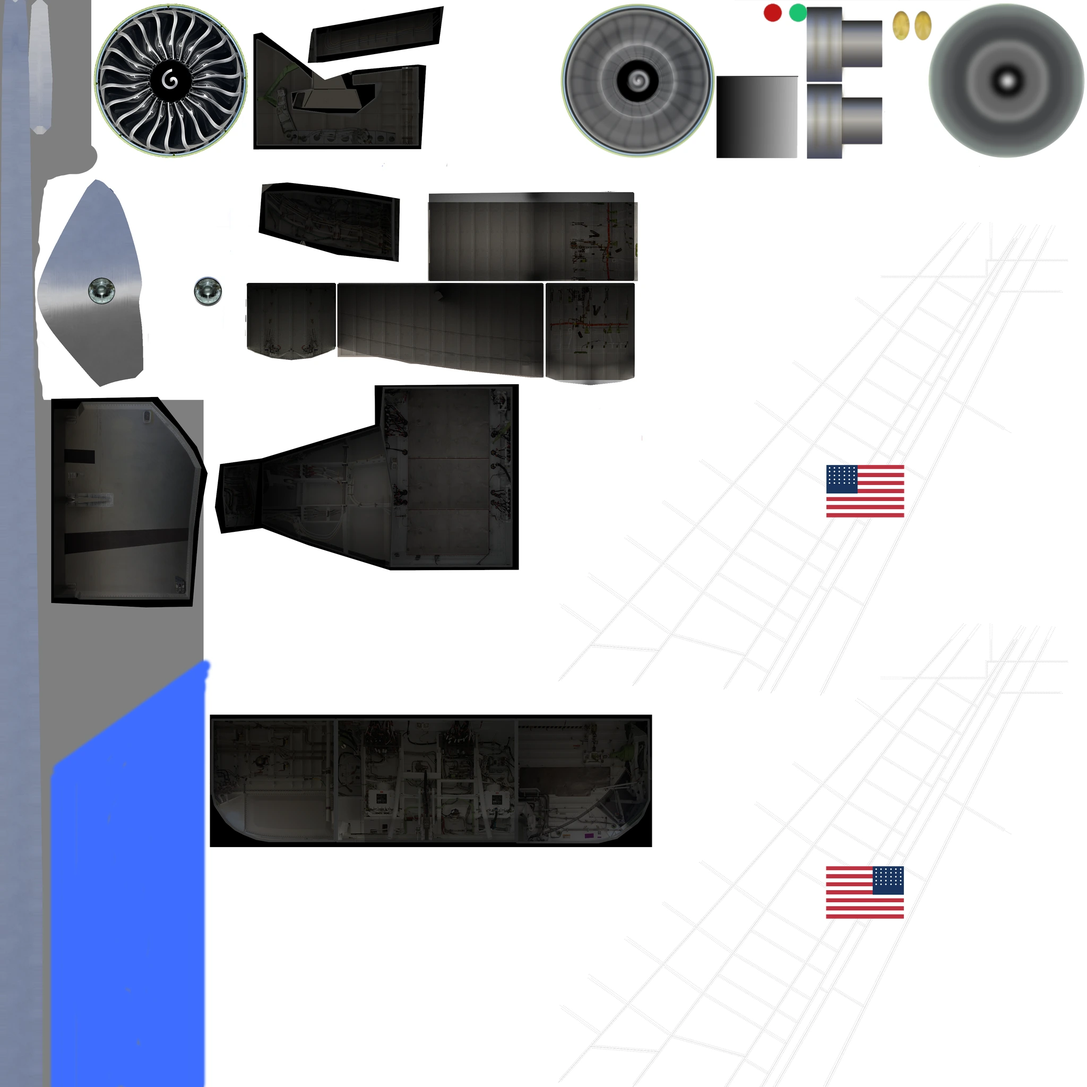
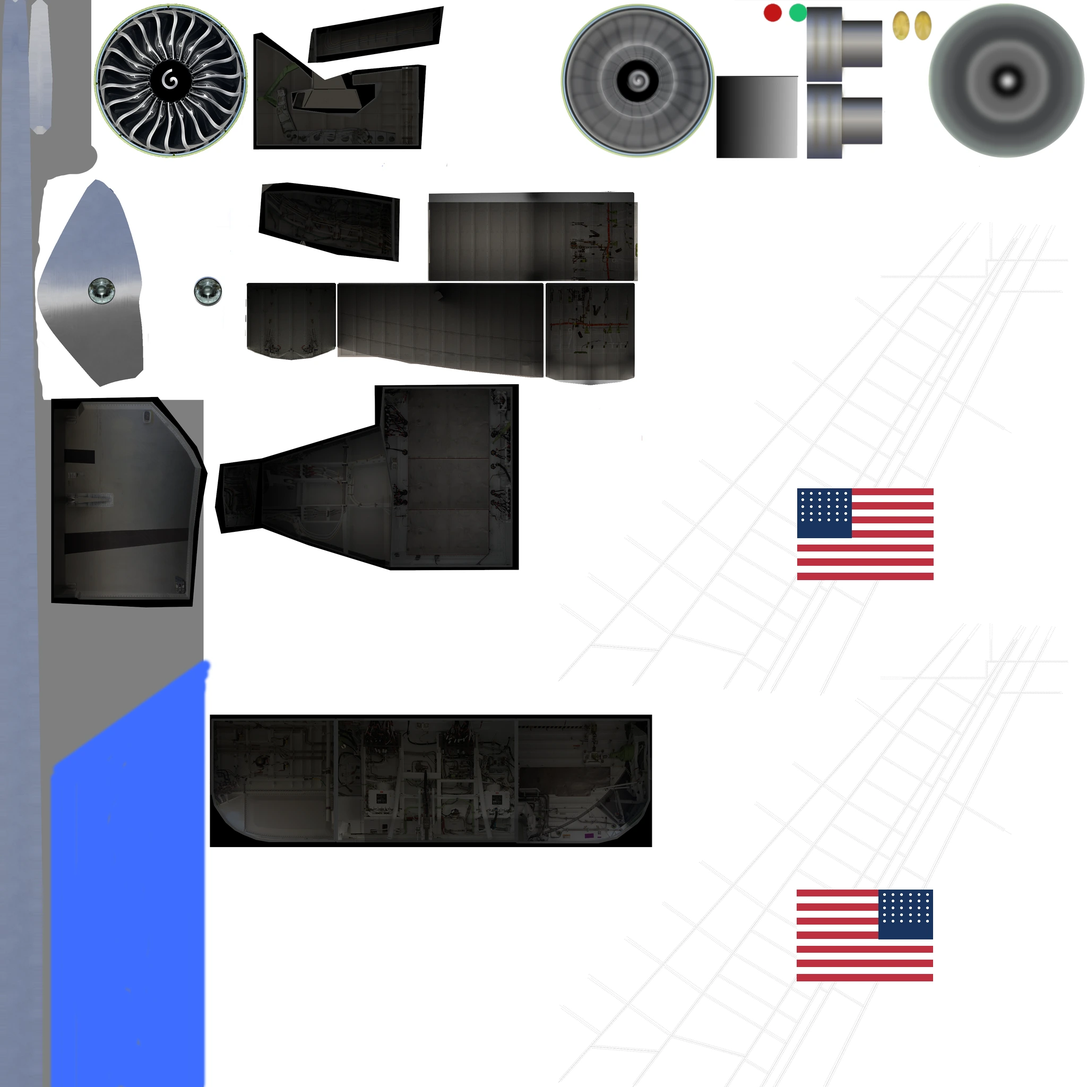
fix: correct airline liveries and improve render performance
Liveries:
- Emirates titles and cheatline are red (#D71920), not gold, on the 747
  and 777 atlases.
- Lufthansa 777 fin is dark blue with a yellow crane; the previous atlas
  had the two colours inverted.
- Air Force One tails now carry a large flag over the fin (747 classic and
  both 777 variants) instead of a small tip badge.
- Regenerated the affected PNG sources and WebP delivery copies.

Performance:
- Disable preserveDrawingBuffer and keep a throttled backup frame instead.
- Reduce the shadow map from 4096 to 2048 and anisotropy from 16 to 8.
- Cache camera projection inputs and avoid rebuilding the matrix per frame.
- Avoid per-frame vector/array allocations in aircraft animation and airflow.
- Skip particle buffer updates while a pool is idle.
- Hide the static apron aircraft in the low-quality mode.
- Request the high-performance GPU and cap the pixel ratio at 1.5.

Agent: Pi coding agent
Model: deepseek/deepseek-flash-latest

Changed region(s): [[0.7188, 0.7812, 0.875, 0.9062], [0.7188, 0.4062, 0.875, 0.5312]]

diff --git a/src/main.js b/src/main.js
@@ -25,7 +25,9 @@ let renderer;
 try{
  const canvas=document.createElement('canvas');
  // Supply our own context: Three r170 otherwise requests an alpha-enabled drawing buffer.
- const context=canvas.getContext('webgl2',{alpha:false,antialias:true,depth:true,stencil:false,preserveDrawingBuffer:true,powerPreference:'default'});
+ // preserveDrawingBuffer costs a full-buffer copy on many GPUs; StableDisplay
+ // keeps its own throttled backup instead. Ask for the discrete GPU when present.
+ const context=canvas.getContext('webgl2',{alpha:false,antialias:true,depth:true,stencil:false,preserveDrawingBuffer:false,powerPreference:'high-performance'});
  if(!context)throw Error('WebGL2 unavailable');
  renderer=new T.WebGLRenderer({canvas,context,alpha:false,logarithmicDepthBuffer:true});
 }catch(e){$('#loadingText').textContent='浏览器暂时不能显示三维画面。请用 Chrome 或 Edge，并开启硬件加速后重试。';throw e;}
@@ -34,7 +36,7 @@ const display=new StableDisplay(renderer,$('#viewport'));display.beginFrame();
 const scene=new T.Scene(),camera=new T.PerspectiveCamera(43,innerWidth/innerHeight,.2,120000);
 const world=new World(scene,renderer),sim=new Flight();
 let plane=new Aircraft(),cockpit=null,airflow=null;
-const aircraftCache=new Map();let aircraftRequest=0,liveryVersion=0,desiredLivery='BOE';
+const aircraftCache=new Map();const parkedAircraft=[];let aircraftRequest=0,liveryVersion=0,desiredLivery='BOE';
 const AIRCRAFT_INFO={
  b747:{name:'BOEING 747–400',gear:'18 个轮子，5 组支撑',engines:4,engine:'GE CF6 · N1 %'},
  a380:{name:'AIRBUS A380–800',gear:'22 个轮子，5 组支撑',engines:4,engine:'TRENT 900 · N1 %',description:'全长双层客舱和四台发动机。外形采用 FlyByWire A380X 模型，非商业用途。'},
@@ -45,6 +47,8 @@ let originalAbout='',originalEmitters=null;
 let camMode='orbit',orbitAngle=.87,orbitHeight=.29,orbitDistance=137,focus=new T.Vector3(0,2,0),firstCamera=true,rate=1,panel=null,toastTimer,frameCount=0,elapsed=0,fps=0;
 let orbitOverview=true,overviewCraft=null;
 let lookYaw=0,lookPitch=0,viewFov=43,towerZoom=1,cancelCameraGestures=()=>{};
+// Cache projection inputs so the camera matrix is only rebuilt when it changes.
+let lastViewX=NaN,lastW=0,lastH=0,lastFov=0;
 const keys=new Set(),touch=new Set(),surface={roll:0,pitch:0,yaw:0};
 const camPos=new T.Vector3(),camTarget=new T.Vector3(),targetPos=new T.Vector3(),planePos=new T.Vector3();
 const lookDir=new T.Vector3(),lookRight=new T.Vector3(),panRight=new T.Vector3(),panUp=new T.Vector3(),inverseHeading=new T.Quaternion();
@@ -269,7 +273,7 @@ function bindUI(){
  $('#assist').onclick=()=>{sim.assist=!sim.assist;$('#assist').classList.toggle('active',sim.assist);};
  all('[data-time]').forEach(b=>b.onclick=()=>{world.setTime(b.dataset.time);syncCabinTime(plane);document.body.dataset.time=b.dataset.time;all('[data-time]').forEach(x=>x.classList.toggle('active',x===b));});
  all('[data-aircraft]').forEach(b=>b.onclick=()=>selectAircraft(b.dataset.aircraft));$('#aircraftSelect').onchange=e=>selectAircraft(e.target.value);
- $('#quality').onchange=e=>{const low=e.target.value==='low';display.setQuality(low);renderer.shadowMap.enabled=!low;airflow?.setQuality(low);};
+ $('#quality').onchange=e=>{const low=e.target.value==='low';display.setQuality(low);renderer.shadowMap.enabled=!low;airflow?.setQuality(low);for(const p of parkedAircraft)p.visible=!low;};
  $('#sound').onclick=()=>{initAudio();sound.enabled=!sound.enabled;sound.ctx.resume();$('#sound').classList.toggle('on',sound.enabled);$('#sound').ariaLabel=sound.enabled?'关闭声音':'开启声音';notify(sound.enabled?'发动机声音已开启':'声音已关闭');};
  $('#help').onclick=()=>$('#helpDialog').showModal();all('[data-close]').forEach(b=>b.onclick=()=>$('#'+b.dataset.close).close());
  $('#fullscreen').onclick=async()=>{try{if(document.fullscreenElement)await document.exitFullscreen();else await document.documentElement.requestFullscreen();}catch{notify('请使用浏览器的全屏按钮');}};
@@ -305,7 +309,15 @@ function updateCamera(dt){
  if(camMode!=='cockpit')camPos.y=Math.max(camPos.y,1.2);
  // Light buffet shake when the wing is close to the stall, a real cue in the cockpit.
  if(sim.buffet&&!sim.paused){const shake=.28;camPos.x+=(Math.random()-.5)*shake;camPos.y+=(Math.random()-.5)*shake;camTarget.add(_shake.set((Math.random()-.5)*shake,(Math.random()-.5)*shake,0));}
- const t=firstCamera?1:1-Math.exp(-dt*6);camera.position.lerp(camPos,t);camTarget.lerp(targetPos,t);camera.up.set(0,1,0);if(camMode==='cockpit')camera.up.applyQuaternion(plane.root.quaternion);camera.lookAt(camTarget);const w=display.width,h=display.height;camera.setViewOffset(w,h,camMode==='orbit'&&w>760?(panel?w*.035:-w*.055):0,0,w,h);camera.near=camMode==='cockpit'?.03:.2;camera.updateProjectionMatrix();firstCamera=false;
+ const t=firstCamera?1:1-Math.exp(-dt*6);camera.position.lerp(camPos,t);camTarget.lerp(targetPos,t);camera.up.set(0,1,0);if(camMode==='cockpit')camera.up.applyQuaternion(plane.root.quaternion);camera.lookAt(camTarget);
+ const w=display.width,h=display.height,viewX=camMode==='orbit'&&w>760?(panel?w*.035:-w*.055):0,near=camMode==='cockpit'?.03:.2;
+ let projDirty=false;
+ if(camera.near!==near){camera.near=near;projDirty=true;}
+ if(camera.fov!==lastFov){lastFov=camera.fov;projDirty=true;}
+ if(w!==lastW||h!==lastH){camera.aspect=w/h;lastW=w;lastH=h;projDirty=true;}
+ if(viewX!==lastViewX){if(viewX)camera.setViewOffset(w,h,viewX,0,w,h);else camera.clearViewOffset();lastViewX=viewX;projDirty=false;}
+ if(projDirty)camera.updateProjectionMatrix();
+ firstCamera=false;
 }
 function drawAttitude(){
  const c=attitude,W=200,H=150,y=sim.pitch*2.6;
@@ -371,13 +383,13 @@ async function start(){
  try{await plane.load();fixAircraftWingShading(plane);aircraftCache.set('b747',Promise.resolve(plane));scene.add(plane.root);airflow=new Airflow(scene,plane);originalEmitters={engines:airflow.engines,tips:airflow.tips,mainGear:airflow.mainGear};originalAbout=$('#aboutDetails').innerHTML;$('#loadingText').textContent='装载驾驶舱、操纵杆和仪表…';
  try{cockpit=await new Cockpit().loadInterior(plane.native.scale,$('#attitude'));scene.add(cockpit.root);}catch(e){console.warn('驾驶舱使用简化视角',e);cockpit=null;}
  // Parked aircraft share geometry and textures, with animations fixed at their current neutral state.
- for(const [x,z] of [[-1200,-390],[-510,-390],[180,-390],[640,-390]]){const p=plane.root.clone(true),materials=new Map();p.position.set(x,plane.contact,z);p.rotation.y=-Math.PI/2;world.softShadow(x+6,z+2,66,76);p.traverse(o=>{if(o.isMesh){o.castShadow=false;const copy=m=>{if(!materials.has(m))materials.set(m,m.clone());return materials.get(m);};o.material=Array.isArray(o.material)?o.material.map(copy):copy(o.material);}});scene.add(p);p.updateMatrixWorld(true);p.traverse(o=>{o.matrixAutoUpdate=false;});}
+ for(const [x,z] of [[-1200,-390],[-510,-390],[180,-390],[640,-390]]){const p=plane.root.clone(true),materials=new Map();p.position.set(x,plane.contact,z);p.rotation.y=-Math.PI/2;world.softShadow(x+6,z+2,66,76);p.traverse(o=>{if(o.isMesh){o.castShadow=false;const copy=m=>{if(!materials.has(m))materials.set(m,m.clone());return materials.get(m);};o.material=Array.isArray(o.material)?o.material.map(copy):copy(o.material);}});scene.add(p);p.updateMatrixWorld(true);p.traverse(o=>{o.matrixAutoUpdate=false;o.matrixWorldAutoUpdate=false;});parkedAircraft.push(p);}
  addCabinLights(plane);syncCabinTime(plane);
  bindUI();resize();setCam('orbit');$('#loading').remove();
  window.flightLab={sim,plane,world,airflow,camera,renderer,display,go,setCam,focusPart,setThrottle,selectAircraft,selectLivery,cameraView(){return{mode:camMode,azimuth:orbitAngle,elevation:orbitHeight,distance:orbitDistance,focus:focus.toArray(),lookYaw,lookPitch,viewFov,towerZoom};},advance(seconds){for(let i=0;i<seconds*120;i++)sim.step(1/120,{});},snapshot(){return{mode:sim.mode,phase:sim.phase,x:sim.x,z:sim.z,altitude:sim.altitude,speed:sim.speed,mach:sim.mach,alpha:sim.alpha,stallSpeed:sim.stallSpeed,loadFactor:sim.loadFactor,throttle:sim.throttle,engineN1:sim.engineN1,gear:sim.gear,flaps:sim.flaps,park:sim.park,onGround:sim.onGround,failed:sim.failed,complete:sim.complete,stalled:sim.stalled,warnings:warningList(),aircraft:plane.type,livery:plane.livery,dimensions:plane.dimensions.toArray(),contact:plane.contact,engines:AIRCRAFT_INFO[plane.type].engines,animations:plane.a330Animations?.length??plane.bindings?.length??(plane.type==='b777'?(plane._current?.bundle?.animationIndices?.length||0):plane.type==='b747'?plane.animations.length:Object.values(plane.parts||{}).reduce((n,items)=>n+items.length,0)),paint:plane.type==='a330'?'a330-atlas':plane.type==='b777'?'b777-atlas':plane.paintLivery?'airline-markings':'747-atlas',model:plane.liveryInfo?.model||plane.modelLabel||AIRCRAFT_INFO[plane.type].name,liveryInfo:plane.liveryInfo?{...plane.liveryInfo}:null,cargoMode:['a330','b777'].includes(plane.type)?plane.cargoMode:null,cabinTime:world.time,cabinLit:plane.type==='b777'?world.time==='night'&&!plane.cargoMode:(plane.cabinWindowLights?.visible??null),fps,drawCalls:renderer.info.render.calls,triangles:renderer.info.render.triangles,display:display.diagnostics()};}};
  let last=performance.now(),uiTime=0;display.onResume=()=>{last=performance.now();};
  function frame(now){if(!running)return;requestAnimationFrame(frame);if(!display.beginFrame()){last=now;return;}let realDt=Math.min((now-last)/1000,.05);last=now;const input=readInput(realDt);const dt=realDt*rate;const n=Math.max(1,Math.ceil(dt*120));for(let i=0;i<n;i++)sim.step(dt/n,input);
- plane.root.position.set(sim.x,plane.contact+sim.altitude+(sim.onGround?Math.max(0,Math.sin(radians(sim.pitch))*4):0),sim.z);plane.root.quaternion.setFromEuler(_euler.set(radians(sim.bank),radians(90-sim.heading),radians(sim.pitch)));plane.root.visible=camMode!=='cockpit';plane.update(sim,sim.paused?0:dt);if(cockpit){cockpit.root.visible=camMode==='cockpit';if(cockpit.root.visible){cockpit.root.position.copy(plane.root.position);cockpit.root.quaternion.copy(plane.root.quaternion);cockpit.update(sim,sim.paused?0:dt);cockpit.draw(sim);}}world.update(sim.paused?0:dt,plane.root.position);airflow?.update(sim,dt,camMode,world.time);compassStrip.style.transform=`translateX(${-sim.heading*COMPASS_PX}px)`;updateCamera(realDt);renderer.render(scene,camera);display.presented(now);updateAudio();
+ plane.root.position.set(sim.x,plane.contact+sim.altitude+(sim.onGround?Math.max(0,Math.sin(radians(sim.pitch))*4):0),sim.z);plane.root.quaternion.setFromEuler(_euler.set(radians(sim.bank),radians(90-sim.heading),radians(sim.pitch)));plane.root.visible=camMode!=='cockpit';plane.update(sim,sim.paused?0:dt);if(cockpit){cockpit.root.visible=camMode==='cockpit';if(cockpit.root.visible){cockpit.root.position.copy(plane.root.position);cockpit.root.quaternion.copy(plane.root.quaternion);cockpit.update(sim,sim.paused?0:dt);cockpit.draw(sim);}}world.update(sim.paused?0:dt,plane.root.position);airflow?.update(sim,dt,camMode,world.time);compassStrip.style.transform=`translateX(${-sim.heading*COMPASS_PX}px)`;updateCamera(realDt);renderer.render(scene,camera);display.captureAfterRender();display.presented(now);updateAudio();
  uiTime+=realDt;if(uiTime>.09){updateUI();uiTime=0;}if(sim.failed&&!$('#retryDialog').open){$('#retryReason').textContent=sim.message;$('#retryDialog').showModal();}
  elapsed+=realDt;frameCount++;if(elapsed>1){fps=Math.round(frameCount/elapsed);elapsed=0;frameCount=0;}
  }requestAnimationFrame(frame);

diff --git a/src/display.js b/src/display.js
@@ -2,13 +2,14 @@
 export class StableDisplay {
  constructor(renderer,host){
   this.renderer=renderer;this.host=host;this.width=0;this.height=0;this.ratio=0;
-  this.lowQuality=false;this.dirty=true;this.lost=false;this.suspended=false;this.hasBackup=false;
+  this.lowQuality=false;this.dirty=true;this.lost=false;this.suspended=false;this.hasBackup=false;this.captureTick=0;
   this.stats={frames:0,resizes:0,contextLosses:0,restores:0,backupCaptures:0};
   this.backup=document.createElement('canvas');this.backup.className='last-frame';this.backup.hidden=true;this.backup.setAttribute('aria-hidden','true');host.appendChild(this.backup);
   this.copy=this.backup.getContext('2d',{alpha:false});
   this.observer=new ResizeObserver(()=>this.requestResize());this.observer.observe(host);
   renderer.domElement.addEventListener('webglcontextlost',event=>{
-   this.captureBackup();event.preventDefault();this.lost=true;this.stats.contextLosses++;this.showBackup();this.onSuspend?.();
+   // The drawing buffer is already gone; keep the last throttled copy instead.
+   event.preventDefault();this.lost=true;this.stats.contextLosses++;this.showBackup();this.onSuspend?.();
   });
   renderer.domElement.addEventListener('webglcontextrestored',()=>{
    this.lost=false;this.dirty=true;this.stats.restores++;
@@ -16,7 +17,7 @@ export class StableDisplay {
   });
   document.addEventListener('visibilitychange',()=>{
    this.suspended=document.hidden;
-   if(this.suspended){this.captureBackup();this.showBackup();this.onSuspend?.();}else{this.requestResize();this.onResume?.();}
+   if(this.suspended){this.showBackup();this.onSuspend?.();}else{this.requestResize();this.onResume?.();}
   });
  }
  requestResize(){this.dirty=true;}
@@ -32,17 +33,27 @@ export class StableDisplay {
  showBackup(){if(this.hasBackup)this.backup.hidden=false;}
  beginFrame(){
   if(this.lost||this.suspended||document.hidden)return false;
-  const width=Math.floor(this.host.clientWidth),height=Math.floor(this.host.clientHeight);
-  if(width<2||height<2)return false;
-  const ratio=this.lowQuality?1:Math.min(devicePixelRatio||1,1.7);
-  if(width!==this.width||height!==this.height||ratio!==this.ratio){
-   if(this.width>1&&this.height>1)this.captureBackup();
-   this.showBackup();
-   // Unlike repeated setSize calls from resize events, this clears once, immediately before rendering.
-   this.renderer.setDrawingBufferSize(width,height,ratio);
-   this.width=width;this.height=height;this.ratio=ratio;this.stats.resizes++;
+  // Reading clientWidth/clientHeight forces layout. The ResizeObserver already
+  // marks us dirty, so only measure when the size may actually have changed.
+  if(this.dirty){
+   const width=Math.floor(this.host.clientWidth),height=Math.floor(this.host.clientHeight);
+   if(width<2||height<2)return false;
+   const ratio=this.lowQuality?1:Math.min(devicePixelRatio||1,1.5);
+   if(width!==this.width||height!==this.height||ratio!==this.ratio){
+    this.showBackup();
+    // Unlike repeated setSize calls from resize events, this clears once, immediately before rendering.
+    this.renderer.setDrawingBufferSize(width,height,ratio);
+    this.width=width;this.height=height;this.ratio=ratio;this.stats.resizes++;
+   }
+   this.dirty=false;
   }
-  this.dirty=false;return true;
+  return true;
+ }
+ // preserveDrawingBuffer is off, so the canvas is only readable in the same
+ // task as render(). Keep a throttled copy for context-loss/visibility cover.
+ captureAfterRender(){
+  if((++this.captureTick%20)!==0)return;
+  this.captureBackup();
  }
  presented(now){
   this.stats.frames++;

diff --git a/src/airflow.js b/src/airflow.js
@@ -7,24 +7,30 @@ const fg=(x,y,z)=>new T.Vector3(x,z,-y);
 // Round-robin particle pool drawn as soft points, with per-particle colour + alpha.
 class Pool{
  constructor(scene,{count,size,color,additive=false,map=null}){
-  this.n=count;this.next=0;
+  this.n=count;this.next=0;this.alive=0;
   this.pos=new Float32Array(count*3);this.col=new Float32Array(count*4);
   this.vel=new Float32Array(count*3);this.age=new Float32Array(count).fill(1e3);this.life=new Float32Array(count).fill(1);this.alpha=new Float32Array(count);
   for(let i=0;i<count;i++){this.col.set([color[0],color[1],color[2],0],i*4);}
   this.rgb=color;
   const g=new T.BufferGeometry();g.setAttribute('position',new T.BufferAttribute(this.pos,3));g.setAttribute('color',new T.BufferAttribute(this.col,4));
   this.points=new T.Points(g,new T.PointsMaterial({size,map,vertexColors:true,transparent:true,depthWrite:false,blending:additive?T.AdditiveBlending:T.NormalBlending}));
-  this.points.frustumCulled=false;this.points.renderOrder=10;scene.add(this.points);
+  this.points.frustumCulled=false;this.points.renderOrder=10;this.points.visible=false;this.wasLive=false;scene.add(this.points);
  }
  emit(p,v,life,alpha){
   const i=this.next;this.next=(i+1)%this.n;
-  this.pos.set([p.x,p.y,p.z],i*3);this.vel.set(v?[v.x,v.y,v.z]:[0,0,0],i*3);this.age[i]=0;this.life[i]=life;this.alpha[i]=alpha;
+  if(this.age[i]>=this.life[i])this.alive++;
+  this.points.visible=true;
+  const k=i*3;this.pos[k]=p.x;this.pos[k+1]=p.y;this.pos[k+2]=p.z;
+  this.vel[k]=v?v.x:0;this.vel[k+1]=v?v.y:0;this.vel[k+2]=v?v.z:0;
+  this.age[i]=0;this.life[i]=life;this.alpha[i]=alpha;
  }
  update(dt){
+  // Idle pools cost nothing: no per-particle loop and no GPU buffer upload.
+  if(this.alive===0){if(this.wasLive){this.points.visible=false;this.wasLive=false;}return;}
   let live=false;
   for(let i=0;i<this.n;i++){
-   const age=this.age[i]+=dt;
-   if(age>=this.life[i]){this.col[i*4+3]=0;continue;}
+   const prev=this.age[i],age=this.age[i]=prev+dt;
+   if(age>=this.life[i]){if(prev<this.life[i])this.alive--;this.col[i*4+3]=0;continue;}
    live=true;const k=i*3;this.pos[k]+=this.vel[k]*dt;this.pos[k+1]+=this.vel[k+1]*dt;this.pos[k+2]+=this.vel[k+2]*dt;
    const t=age/this.life[i];this.col[i*4+3]=this.alpha[i]*Math.pow(1-t,1.5)*Math.min(1,age*6);
   }
@@ -123,7 +129,8 @@ export class Airflow{
    this.streakPos[k]=p.x;this.streakPos[k+1]=p.y;this.streakPos[k+2]=p.z;
    this.streakPos[k+3]=p.x-dir.x*len;this.streakPos[k+4]=p.y-dir.y*len;this.streakPos[k+5]=p.z-dir.z*len;
    const a=on?base:0;
-   this.streakCol.set([shade,shade,1,a,shade,shade,1,0],c);
+   this.streakCol[c]=shade;this.streakCol[c+1]=shade;this.streakCol[c+2]=1;this.streakCol[c+3]=a;
+   this.streakCol[c+4]=shade;this.streakCol[c+5]=shade;this.streakCol[c+6]=1;this.streakCol[c+7]=0;
   }
   this.streaks.geometry.attributes.position.needsUpdate=true;this.streaks.geometry.attributes.color.needsUpdate=true;this.streaks.visible=strength>.02;
  }

diff --git a/src/world.js b/src/world.js
@@ -40,7 +40,7 @@ function pavementTexture(base,scale=1,{joints=0,stains=18}={}){const S=1024,c=do
  for(let i=0;i<120000;i++){const g=Math.floor(rnd()*255);x.fillStyle=`rgba(${g},${g},${g},.07)`;x.fillRect(rnd()*S,rnd()*S,1+rnd()*2,1+rnd()*2);}
  x.strokeStyle='rgba(10,12,12,.28)';x.lineWidth=1;for(let i=0;i<26;i++){let px=rnd()*S,py=rnd()*S;x.beginPath();x.moveTo(px,py);for(let k=0;k<8;k++){px+=(rnd()-.5)*46;py+=(rnd()-.35)*34;x.lineTo(px,py);}x.stroke();}
  if(joints){x.strokeStyle='rgba(20,22,22,.34)';x.lineWidth=2;for(let k=0;k<=joints;k++){const q=k*S/joints;x.beginPath();x.moveTo(q,0);x.lineTo(q,S);x.stroke();x.beginPath();x.moveTo(0,q);x.lineTo(S,q);x.stroke();}}
- const t=canvasTex(c);t.wrapS=t.wrapT=T.RepeatWrapping;t.repeat.set(scale,scale);t.anisotropy=16;return t;}
+ const t=canvasTex(c);t.wrapS=t.wrapT=T.RepeatWrapping;t.repeat.set(scale,scale);t.anisotropy=8;return t;}
 // Greyscale lumps for a gentle bump on grass, so the low sun grazes real relief.
 function grassBumpTexture(){const S=512,c=document.createElement('canvas');c.width=c.height=S;const x=c.getContext('2d');x.fillStyle='#808080';x.fillRect(0,0,S,S);
  for(let i=0;i<90000;i++){const g=Math.floor(90+rnd()*80);x.fillStyle=`rgb(${g},${g},${g})`;x.fillRect(rnd()*S,rnd()*S,1+rnd()*2,1+rnd()*4);}
@@ -75,7 +75,7 @@ export class World{
   this.sky=new Sky();this.sky.scale.setScalar(200000);scene.add(this.sky);const u=this.sky.material.uniforms;u.turbidity.value=3;u.rayleigh.value=1.6;u.mieCoefficient.value=.004;u.mieDirectionalG.value=.82;
   this.envs={};
   this.hemi=new T.HemisphereLight(0xcde9ff,0x758466,1.15);scene.add(this.hemi);
-  this.sun=new T.DirectionalLight(0xfff5de,3.2);this.sun.position.set(300,500,-250);this.sun.castShadow=true;this.sun.shadow.mapSize.set(4096,4096);Object.assign(this.sun.shadow.camera,{left:-150,right:150,top:150,bottom:-150,near:10,far:1600});this.sun.shadow.bias=-.0001;this.sun.shadow.normalBias=.08;this.sun.shadow.radius=2.2;scene.add(this.sun,this.sun.target);
+  this.sun=new T.DirectionalLight(0xfff5de,3.2);this.sun.position.set(300,500,-250);this.sun.castShadow=true;this.sun.shadow.mapSize.set(2048,2048);Object.assign(this.sun.shadow.camera,{left:-150,right:150,top:150,bottom:-150,near:10,far:1600});this.sun.shadow.bias=-.0001;this.sun.shadow.normalBias=.08;this.sun.shadow.radius=2.2;scene.add(this.sun,this.sun.target);
   const grass=mat('#ffffff',.95);grass.map=fieldTexture();grass.map.repeat.set(48,48);grass.bumpMap=grassBumpTexture();grass.bumpMap.repeat.set(900,900);grass.bumpScale=1.6;this.ground(0,0,100000,100000,grass,-.05);
   // Mowed stripes beside the runway and soft far-field patches break up the horizon.
   const mowA=mat('#7c9764',.95),mowB=mat('#8aa571',.95);for(let i=0;i<22;i++)this.ground(0,60+i*14,4300,14,i%2?mowA:mowB,-.045);

diff --git a/src/aircraft.js b/src/aircraft.js
@@ -17,7 +17,7 @@ function texture(name){
    if(textures.get(name)===t){textures.delete(name);textureLoads.delete(name);}
    rejectLoad(Error('涂装载入失败，请重试'));
   });
-  t.colorSpace=T.SRGBColorSpace;t.anisotropy=16;
+  t.colorSpace=T.SRGBColorSpace;t.anisotropy=8;
   textures.set(name,t);textureLoads.set(name,loaded);
  }
  return textures.get(name);
@@ -25,6 +25,7 @@ function texture(name){
 const txt=(node,tag,def='')=>node?.querySelector(':scope > '+tag)?.textContent.trim()??def;
 const num=(node,tag,def=0)=>Number(txt(node,tag,def));
 const fg=(x,y,z)=>new T.Vector3(x,z,-y);
+const _pivot=new T.Vector3();
 const children=(el,name)=>Array.from(el.children).filter(x=>x.tagName===name);
 
 // AC3D is Y-up. FlightGear animation XML is Z-up; transform pivots and axes together.
@@ -133,7 +134,7 @@ export class Aircraft{
    let v=this.value(a.prop,s);if(a.table.length){const t=a.table;if(v<=t[0][0])v=t[0][1];else if(v>=t.at(-1)[0])v=t.at(-1)[1];else for(let i=1;i<t.length;i++)if(v<=t[i][0]){v=T.MathUtils.lerp(t[i-1][1],t[i][1],(v-t[i-1][0])/(t[i][0]-t[i-1][0]));break;}}
    v=v*a.factor+a.offset;
    if(a.type==='spin'){a.phase=(a.phase+v*dt*6)%360;v=a.phase;}
-   for(const o of a.wrappers){if(a.type==='translate')o.position.copy(a.axis).multiplyScalar(v);else{o.quaternion.setFromAxisAngle(a.axis,v*Math.PI/180);o.position.copy(a.center).sub(a.center.clone().applyQuaternion(o.quaternion));}}
+   for(const o of a.wrappers){if(a.type==='translate')o.position.copy(a.axis).multiplyScalar(v);else{o.quaternion.setFromAxisAngle(a.axis,v*Math.PI/180);o.position.copy(a.center).sub(_pivot.copy(a.center).applyQuaternion(o.quaternion));}}
   }
   this.lights.forEach((m,i)=>m.visible=s.lights!==false&&(i<2||((s.time||0)%1.2)<.17));
  }

diff --git a/src/accurate-a330.js b/src/accurate-a330.js
@@ -30,7 +30,7 @@ function requestLiveryTexture(owner,url,timeoutMs){
   try{texture=new T.TextureLoader().load(url,t=>{
    const image=t.image,w=image?.naturalWidth??image?.width,h=image?.naturalHeight??image?.height;
    if(w!==2048||h!==1024){finish(Error('A330 涂装贴图尺寸错误'),t);return;}
-   t.colorSpace=T.SRGBColorSpace;t.anisotropy=16;finish(null,t);
+   t.colorSpace=T.SRGBColorSpace;t.anisotropy=8;finish(null,t);
   },undefined,()=>finish(Error('A330 涂装贴图载入失败')));}catch(error){finish(error);}
  });
 }

diff --git a/tests/b777-passenger-generate.py b/tests/b777-passenger-generate.py
@@ -30,10 +30,10 @@ SPEC={
  'CEA':('CHINA EASTERN', '#243c82','#ffffff','cea'),
  'CSN':('CHINA SOUTHERN', '#0056a6','#0874b5','csn'),
  'CHH':('HAINAN AIRLINES', '#a81f2b','#a40f26','chh'),
- 'UAE':('EMIRATES', '#a27a2d','#ffffff','uae'),
+ 'UAE':('EMIRATES', '#d71920','#ffffff','uae'),
  'BAW':('BRITISH AIRWAYS', '#173457','#112c57','baw'),
  'KLM':('KLM ROYAL DUTCH AIRLINES', '#168cbf','#119ddd','klm'),
- 'DLH':('LUFTHANSA', '#15345e','#f6ca24','dlh'),
+ 'DLH':('LUFTHANSA', '#15345e','#15345e','dlh'),
  'DLH100':('LUFTHANSA 100 YEARS', '#15345e','#152d54','dlh100'),
  'AF1_CLASSIC':('UNITED STATES OF AMERICA', '#448db8','#ffffff','af1classic'),
  'AF1_2026':('UNITED STATES OF AMERICA', '#142d52','#142c52','af12026'),
@@ -118,7 +118,9 @@ def icon(kind, art):
   d.rectangle((95,125,295,142),fill='white');d.rectangle((181,22,193,113),fill='white');d.rectangle((163,39,212,51),fill='white')
   text_center(d,'KLM',(40,145,360,290),'white',125)
  elif kind in ('dlh','dlh100'):
-  col='#163056' if kind=='dlh' else '#ffffff'
+  # Lufthansa's fin is dark blue with a yellow crane; the earlier atlas had
+  # these two colours inverted (yellow fin, blue crane).
+  col='#f6ca24' if kind=='dlh' else '#ffffff'
   if kind=='dlh':d.ellipse((40,40,360,360),outline=col,width=13)
   d.line([(65,238),(170,195),(300,150),(335,153)],fill=col,width=12)
   d.line([(164,195),(208,100),(247,82)],fill=col,width=12)
@@ -153,14 +155,15 @@ def body_image(base, title, ink, kind):
   im.paste(layer,(25*Q,y*Q),layer)
  return im
 
-def tail_image(base, mask, tailcolor, glyph):
+def tail_image(base, mask, tailcolor, glyph, size=114):
  im=base.copy(); colored=ImageChops.multiply(Image.new('RGB',(N,N),tailcolor),base)
  im.paste(colored,(0,0),mask)
  # Two fin islands have a vertical offset of .36914, approximately 378/1024.
  for y,mirror in ((409,False),(787,True)):
-  pic=glyph.resize((114*Q,114*Q),Image.Resampling.LANCZOS)
+  pic=glyph.resize((size*Q,size*Q),Image.Resampling.LANCZOS)
   if mirror:pic=pic.transpose(Image.Transpose.FLIP_LEFT_RIGHT)
-  x=758*Q; yy=y*Q
+  # Keep the emblem centred on the fin when a larger motif is requested.
+  x=round((758-(size-114)/2)*Q); yy=y*Q
   # Do not let an emblem spill into a nearby atlas island.
   alpha=ImageChops.multiply(pic.getchannel('A'),mask.crop((x,yy,x+pic.width,yy+pic.height)))
   full=np.asarray(pic.getchannel('A')); clipped=np.asarray(alpha)
@@ -181,7 +184,10 @@ def main():
  for ident,(title,ink,tailcolor,kind) in SPEC.items():
   info=PngImagePlugin.PngInfo(); info.add_text('Comment','Approximate or fictional 777-200LR interpretation; FlightGear 777-VMD GPL-2.0; original schematic artwork; no registration.')
   body_image(body,title,ink,kind).save(OUT/f'{ident}-body.png',pnginfo=info,optimize=True)
-  tail_image(tail,mask,tailcolor,icon(kind,art)).save(OUT/f'{ident}-fin.png',pnginfo=info,optimize=True)
+  # The presidential flag is the whole fin motif, so give it more of the fin
+  # than the small airline emblems need.
+  size=200 if ident in ('AF1_CLASSIC','AF1_2026') else 114
+  tail_image(tail,mask,tailcolor,icon(kind,art),size).save(OUT/f'{ident}-fin.png',pnginfo=info,optimize=True)
   print('generated',ident)
 
 if __name__=='__main__':main()

diff --git a/tools/generate_world_liveries.py b/tools/generate_world_liveries.py
@@ -204,8 +204,9 @@ def paint_body(im, kind):
                 eng, arabic = (555,92,1120,141), (727,39,1120,93)
             else:
                 eng, arabic = (1238,dy+92,1803,dy+141), (1238,dy+39,1631,dy+93)
-            text_fit(im, "Emirates", eng, SERIF_BOLD, (174,135,58,255), 72)
-            text_fit(im, "الإمارات", arabic, SANS_BOLD, (174,135,58,255), 74, "rtl")
+            # Emirates titles are red (Pantone 186C / #D71920), not gold.
+            text_fit(im, "Emirates", eng, SERIF_BOLD, (215,25,32,255), 72)
+            text_fit(im, "الإمارات", arabic, SANS_BOLD, (215,25,32,255), 74, "rtl")
         else:
             title = (560,79,1480,125) if side == 0 else (878,dy+79,1798,dy+125)
             text_fit(im, "UNITED STATES OF AMERICA", title, SERIF, NAVY+(255,), 52, tracking=1.5)
@@ -233,8 +234,9 @@ def paint_tails(im, kind):
             uae_tail(d, ox)
         elif kind == "classic":
             rect(d, (ox,650,ox+550,948), WHITE)
-            # Traditional small flag near the tip, hoist towards the leading edge.
-            flag(d, ox+389, 674, 112, 62, slant=13)
+            # The real VC-25A carries a large flag over most of the fin, with
+            # the hoist along the swept leading edge (not a small tip badge).
+            flag(d, ox+272, 690, 238, 150, slant=114)
             line(d, [(ox+23,936),(ox+407,936)], (91,164,203), 4)
         else:
             rect(d, (ox,650,ox+550,948), WHITE)

diff --git a/README.md b/README.md
@@ -12,8 +12,9 @@
 - 飞行动力学用升力、迎角、阻力、发动机推力、飞机质量和重力共同更新速度与航迹；转弯降低垂直升力，迎角过大时会失速。飞行模型仍是教学用近似，不用于真实训练。
 - 底部推力杆可鼠标/触屏拖动；按住 `B` 或按住脚刹按钮施加轮刹，`P` 切换停留刹车，`G` 起落架，`F` 襟翼。
 - 地面观察：拖动旋转，滚轮缩放。右侧“部件”可操作起落架、襟翼、副翼、升降舵、方向舵、扰流板、反推、下层货舱门和雨刷。
-- 涂装：波音、中国国航、英国航空、荷兰皇家航空、汉莎航空。
+- 涂装：波音、中国国航、中国东方、中国南方、海南、阿联酋、英国航空、荷兰皇家航空、汉莎（含百年纪念）、空军一号（经典/2026）、联邦快递、顺丰。涂装按真实航司配色校正（例如阿联酋红字、汉莎深蓝尾翼黄鹤、空军一号大尺寸国旗尾翼）。
 - 环境：白天、黄昏、夜晚。可关闭辅助驾驶、切换流畅画质，或从跑道开始手动起飞。
+- 画质：默认“精细”保留阴影与抗锯齿；“流畅”会关闭阴影、降低粒子密度并隐藏停机坪上的静态飞机，适合较慢的电脑或移动设备。
 - 相机：环绕、跟随、驾驶舱、机翼、塔台。空格暂停，演示可用 1× / 2× / 4× 播放。
 
 手动起飞：环境 → 从跑道开始 → 襟翼 20° → 按 P 松开停留刹车 → 推满油门 → 约 280 km/h 时轻轻按 ↓ 抬头 → 离地后按 G 收轮。高度增加后逐步收襟翼。
@@ -23,5 +24,7 @@
 ## 文件与验证
 
 `src/` 是可编辑网页源代码；`assets/aircraft/` 保存 FlightGear 模型、关节定义、涂装及原许可与作者信息。`MODEL-NOTES.html` 记录来源和尺寸校核。运行 `npm start` 启动，`npm run check` 检查飞行流程。
+
+渲染侧做了几项通用优化：关闭 `preserveDrawingBuffer` 并改为节流备份帧、阴影贴图 4096→2048、各向异性 16→8、缓存相机投影矩阵、避免每帧分配临时向量、粒子池空闲时跳过更新，以及低画质下隐藏静态停机坪飞机。涂装由 `tools/generate_world_liveries.py` 和 `tests/b777-passenger-generate.py` 生成，修改后运行对应脚本并执行 `python3 tools/optimize-b777-liveries.py` 更新 WebP 交付副本。
 
 FlightGear 模型与贴图遵循随附 GNU GPL v2 许可；本项目的适配代码同样按 GPL v2 提供，Three.js 遵循 MIT 许可。没有覆盖桌面原来的 747-simulator。
